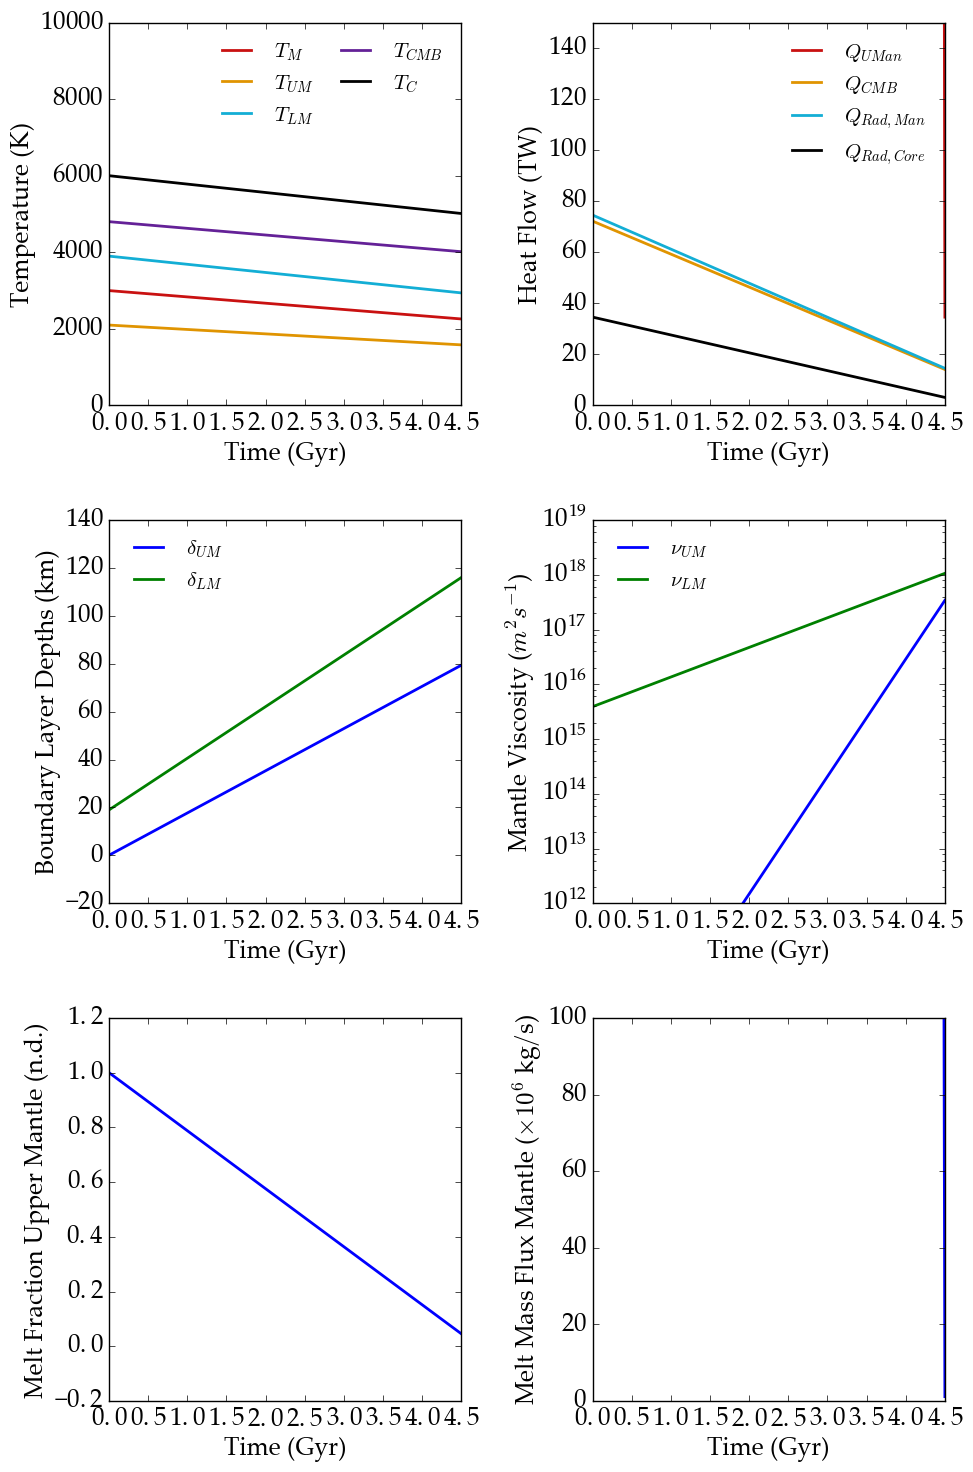
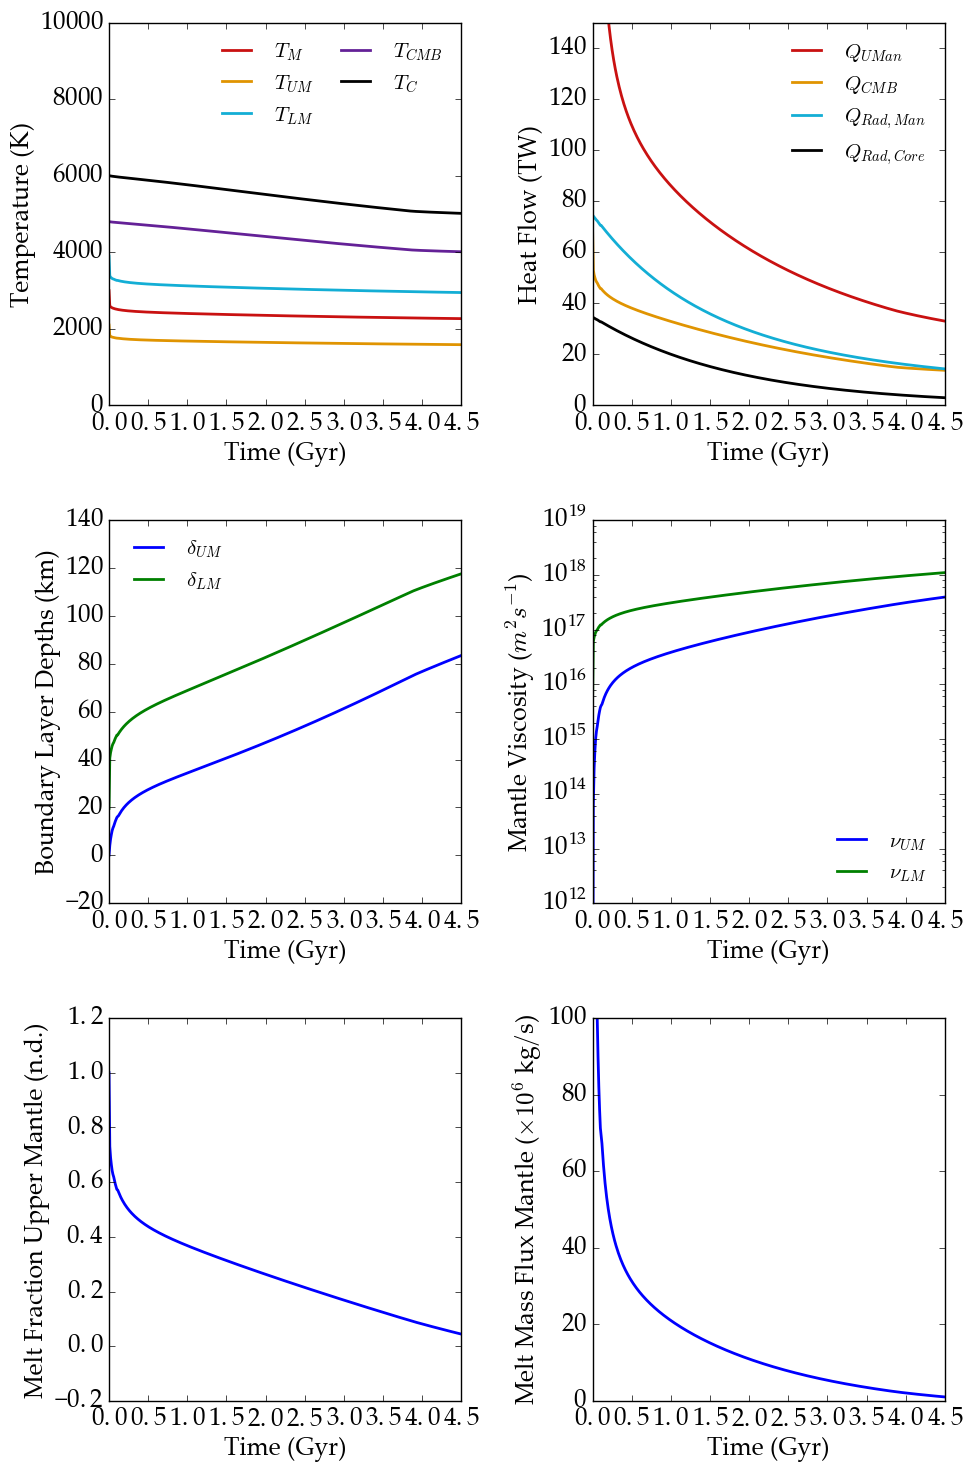
Recalibrated examples/EarthInterior.  Note test/Earthinterior giving an error.

diff --git a/src/thermint.h b/src/thermint.h
@@ -77,7 +77,7 @@
 #define STIFFNESS        1.7169e13  //1e13                   /**< [Pa] Effective stiffness of mantle (calibrated to k2=0.3, Q=100) */
 #define SHMODREF         6.24e4    //6e6                    /**< [Pa] Reference kinematic mantle shear modulus */
 #define VISCREF          6e7   //5e7                    /**< [m^2/s] Reference kinematic mantle viscosity */
-#define VISCJUMPMAN      2.7                    /**< [nd] Viscosity jump from upper to lower mantle */
+#define VISCJUMPMAN      2.49                    /**< [nd] Viscosity jump from upper to lower mantle */
 #define FIXVISCJUMPMAN   0                      /**< [nd] (default) Option to fix viscjumpulm. if =0 then viscLM is computed from TLMan. */
 #define VISCJUMPMMAN     10.                    /**< [nd] Viscosity jump from upper to average (mid) mantle */
 #define VISCMELTB        2.5                    /**< [nd] Viscosity-melt reduction coefficient "B" (DB15 eq 8) */
@@ -107,8 +107,8 @@
 /* CORE CHEMISTRY */
 #define DTCHIREF         300.                   /**< [K] Core reference liquidus depression */
 #define CHI_OC_E         0.18                   /**< [nd] Earth's outer core light element concentration */
-#define PARTITION_CHI_CORE (ERICB)/(ERCORE)     /**< [nd] Core light element partition coefficent */
-#define CHI_IC_E         PARTITION_CHI_CORE*CHI_OC_E /**< [nd] Inner core light element concentration in Earth  (CHI_IC_E=partition*CHI_OC_E) */
+#define PARTITION_CHI_CORE (ERCORE)/(ERICB)  //(ERICB)/(ERCORE)     /**< [nd] Core light element partition coefficent */
+#define CHI_IC_E         CHI_OC_E/PARTITION_CHI_CORE  //PARTITION_CHI_CORE*CHI_OC_E /**< [nd] Inner core light element concentration in Earth  (CHI_IC_E=partition*CHI_OC_E) */
 #define EMASSOC_CHI      CHI_OC_E*EMASSOC       /**< [kg] Mass of light elements (Chi) in Earth's outer core */
 #define EMASSIC_CHI      CHI_IC_E*EMASSIC       /**< [kg] Mass of light elements (Chi) in Earth's inner core */
 #define EMASSCORE_CHI    EMASSOC_CHI+EMASSIC_CHI/**< [kg] Total core light element mass of Earth (conserved) */

diff --git a/tests/EarthInterior/test_EarthInterior.py b/tests/EarthInterior/test_EarthInterior.py
@@ -16,11 +16,11 @@ def test_EarthInterior():
     output = GetOutput(path=cwd)
 
     # Check
-    assert np.isclose(output.log.final.earth.TMan, 2256.001803)
-    assert np.isclose(output.log.final.earth.TCore, 5006.543944)
-    assert np.isclose(output.log.final.earth.RIC, 1232183.0)
-    assert np.isclose(output.log.final.earth.RadPowerTotal, 24265670000000.0)
-    assert np.isclose(output.log.final.earth.MagMom, 0.995060)
+    assert np.isclose(output.log.final.earth.TMan, 2268.3090)
+    assert np.isclose(output.log.final.earth.TCore, 5016.8128)
+    assert np.isclose(output.log.final.earth.RIC, 1214408.4939)
+    assert np.isclose(output.log.final.earth.RadPowerTotal, 24382973000000.0)
+    assert np.isclose(output.log.final.earth.MagMom, 0.9919)
 
 
 if __name__ == "__main__":

diff --git a/examples/EarthInterior/makeplot.py b/examples/EarthInterior/makeplot.py
@@ -110,6 +110,14 @@ plt.subplot(rows,cols,panel)
 plt.plot(out.earth.Time,out.earth.MagPauseRad)
 plt.ylabel(r'Magnetopause Radius (E. Units)')
 plt.xlabel('Time (Gyr)')
+panel += 1
+plt.subplot(rows,cols,panel)
+plt.plot(out.earth.Time,out.earth.ChiOC,label='ChiOC')
+plt.plot(out.earth.Time,out.earth.ChiIC,label='ChiIC')
+plt.ylim(0,0.2)
+plt.ylabel(r'Core Light Element Concentration')
+plt.xlabel('Time (Gyr)')
+plt.legend(loc='best',frameon=False)
 
 vplot.make_pretty(fig)
 if (sys.argv[1] == 'pdf'):

diff --git a/src/thermint.c b/src/thermint.c
@@ -4100,7 +4100,7 @@ double fdChiOC(BODY *body, int iBody) {
 double fdChiIC(BODY *body, int iBody) {
   if (body[iBody].dRIC>0.) {
     //    return body[iBody].dMassChiIC/body[iBody].dMassIC;
-    return body[iBody].dChiOC/PARTITION_CHI_CORE;
+    return body[iBody].dChiOC/(PARTITION_CHI_CORE);
   } else {
     return 0.;
   }
